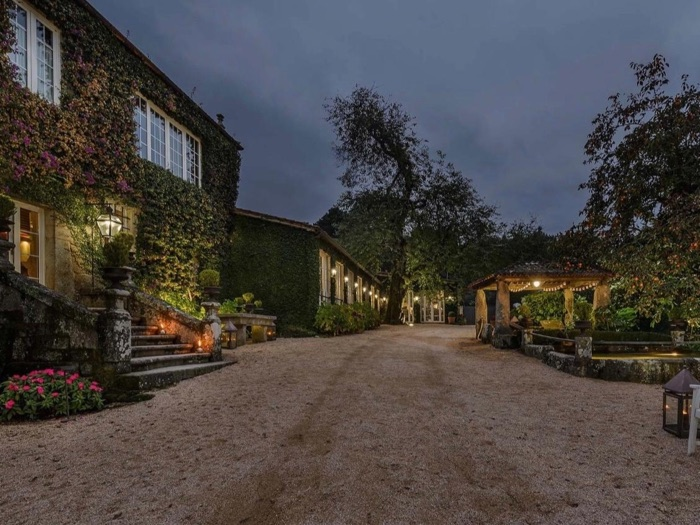
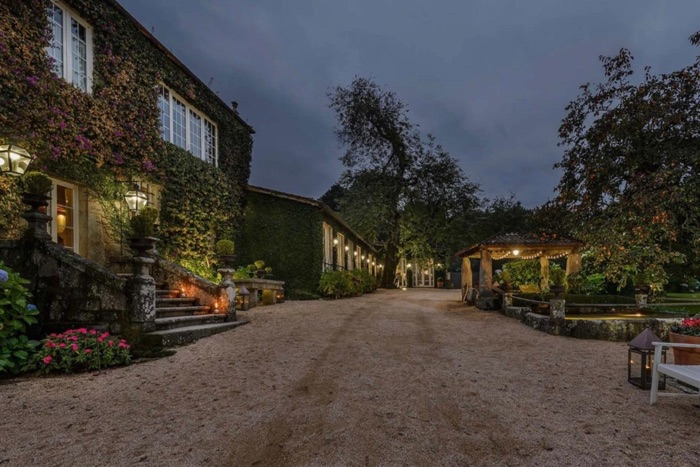
Fotos de Poio y Señoráns más grandes: a la columna ancha, en 3:2

diff --git a/index.html b/index.html
@@ -102,9 +102,9 @@
     <div class="section__head">
       <p class="eyebrow">La ceremonia</p>
       <h2>Monasterio de Poio</h2>
-      <img class="foto" src="assets/foto-poio-700.jpg" srcset="assets/foto-poio-700.jpg 700w, assets/foto-poio-1200.jpg 1200w" sizes="(max-width: 860px) 100vw, 340px" width="1200" height="900" loading="lazy" alt="Fachada del Monasterio de San Xoán de Poio">
     </div>
     <div class="section__body">
+      <img class="foto" src="assets/foto-poio-700.jpg" srcset="assets/foto-poio-700.jpg 700w, assets/foto-poio-1280.jpg 1280w" sizes="(max-width: 860px) 100vw, 640px" width="1280" height="854" loading="lazy" alt="Fachada del Monasterio de San Xoán de Poio">
       <dl class="rows">
         <div><dt>Hora</dt><dd>12:30</dd></div>
         <div><dt>Dónde</dt><dd>Monasterio de San Xoán de Poio</dd></div>
@@ -117,9 +117,9 @@
     <div class="section__head">
       <p class="eyebrow">La celebración</p>
       <h2>Pazo de Señoráns</h2>
-      <img class="foto" src="assets/foto-senorans-700.jpg" srcset="assets/foto-senorans-700.jpg 700w, assets/foto-senorans-1128.jpg 1128w" sizes="(max-width: 860px) 100vw, 340px" width="1128" height="846" loading="lazy" alt="Pazo de Señoráns al anochecer">
     </div>
     <div class="section__body">
+      <img class="foto" src="assets/foto-senorans-700.jpg" srcset="assets/foto-senorans-700.jpg 700w, assets/foto-senorans-1269.jpg 1269w" sizes="(max-width: 860px) 100vw, 640px" width="1269" height="846" loading="lazy" alt="Pazo de Señoráns al anochecer">
       <dl class="rows">
         <div><dt>Cuándo</dt><dd>Al salir de misa · cóctel, comida y fiesta hasta las 02:00</dd></div>
         <div><dt>Dónde</dt><dd>Vilanoviña, Meis · a 20 minutos de Poio</dd></div>

diff --git a/styles.css b/styles.css
@@ -121,7 +121,7 @@ img { max-width: 100%; display: block; }
 .section__body > p { color: var(--tinta-suave); text-wrap: pretty; }
 
 /* Fotos de Poio y Señoráns */
-.foto { display: block; width: 100%; height: auto; margin-top: 20px; }
+.foto { display: block; width: 100%; height: auto; aspect-ratio: 3 / 2; object-fit: cover; }
 
 .rows { margin: 0; border-top: 1px solid var(--tinta); }
 .rows > div { display: flex; justify-content: space-between; gap: 24px; padding: 14px 0; border-bottom: 1px solid var(--filete); font-size: 15px; }
@@ -238,7 +238,6 @@ textarea { resize: vertical; }
   .band__item p:last-child { font-size: 13px; }
   .section { grid-template-columns: minmax(0, 1fr); gap: 20px; padding: 36px var(--lado); }
   .section__body { gap: 20px; }
-  .foto { margin-top: 12px; max-width: 520px; }
   .subhead { margin-top: 28px; }
   .rows > div { flex-direction: column; gap: 4px; padding: 12px 0; }
   .rows dt { flex-basis: auto; font-size: 13px; }
